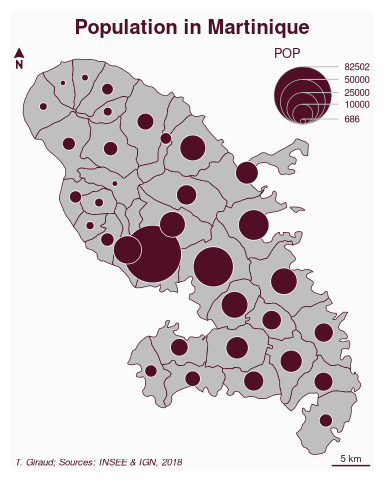
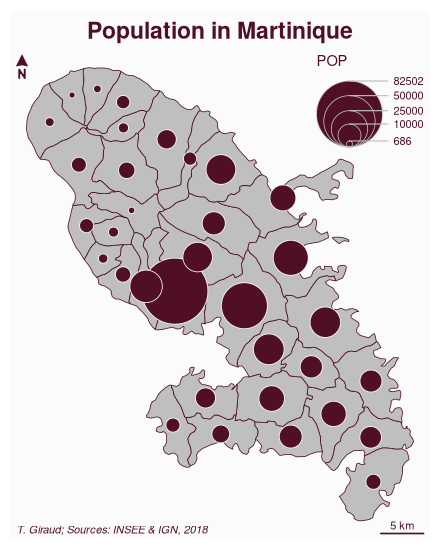
docs: update NEWS and README

diff --git a/README.md b/README.md
@@ -1,11 +1,5 @@
 
-<!-- README.md is generated from README.Rmd. Please edit that file -->
-
-<img src="man/figures/logo.png" align="right" width="120"/>
-
-# mapsf
-
-<!-- badges: start -->
+# mapsf <img src="man/figures/logo.png" align="right" width="120"/>
 
 [![CRAN](https://www.r-pkg.org/badges/version-ago/mapsf)](https://cran.r-project.org/package=mapsf)
 [![R-CMD-check](https://github.com/riatelab/mapsf/actions/workflows/R-CMD-check.yaml/badge.svg)](https://github.com/riatelab/mapsf/actions/workflows/R-CMD-check.yaml)
@@ -13,20 +7,14 @@
 [![Codecov test
 coverage](https://codecov.io/gh/riatelab/mapsf/branch/master/graph/badge.svg)](https://app.codecov.io/gh/riatelab/mapsf?branch=master)
 [![status](https://tinyverse.netlify.app/badge/mapsf)](https://CRAN.R-project.org/package=mapsf)
-[![OpenSSF Best
-Practices](https://www.bestpractices.dev/projects/8704/badge)](https://www.bestpractices.dev/projects/8704)
-[![Project Status: Active – The project has reached a stable, usable
-state and is being actively
-developed.](https://www.repostatus.org/badges/latest/active.svg)](https://www.repostatus.org/#active)
-<!-- badges: end -->
 
-**Create thematic maps and integrate them into your R workflow.**  
+**Create thematic maps and integrate them into your R workflow.**
+
 This package helps you design different cartographic representations
-such as proportional symbols, choropleths, or typology maps.  
-It also provides several functions for displaying layout elements that
-enhance the graphical presentation of maps (e.g., scale bar, north
-arrow, title, labels).  
-`mapsf` maps `sf` objects on `base` graphics.
+such as proportional symbols, choropleths, or typology maps. It also
+provides several functions for displaying layout elements that enhance
+the graphical presentation of maps (e.g., scale bar, north arrow, title,
+labels). `mapsf` maps `sf` objects on `base` graphics.
 
 ## Installation
 
@@ -37,11 +25,12 @@ You can install the released version of `mapsf` from
 install.packages("mapsf")
 ```
 
-Alternatively, you can install the development version of `mapsf` from
-GitHub (**dev** branch) with:
+Alternatively, you can install the development version of `mapsf` (the
+**dev** branch) from [r-universe](https://riatelab.r-universe.dev/mapsf)
+with:
 
 ``` r
-remotes::install_github("riatelab/mapsf", ref = "dev")
+install.packages("mapsf", repos = "https://riatelab.r-universe.dev")
 ```
 
 ## Usage

diff --git a/NEWS.md b/NEWS.md
@@ -1,3 +1,17 @@
+# mapsf 1.1.0
+
+## Fix 
+- better adaptation to lon/lat plots
+- use a different heuristic to guess if the current plot is lon/lat 
+in mf_scale()
+# - use correct plot limits in mf_raster()
+
+## Feat
+- add 'res' argument to mf_png() to set nominal resolution
+- add 'leg_val_dec' & 'leg_val_big' to set decimal and big mark values in 
+relevent functions (those already using 'leg_val_rnd')
+
+
 # mapsf 1.0.0
 
 This is the first major version of mapsf. 